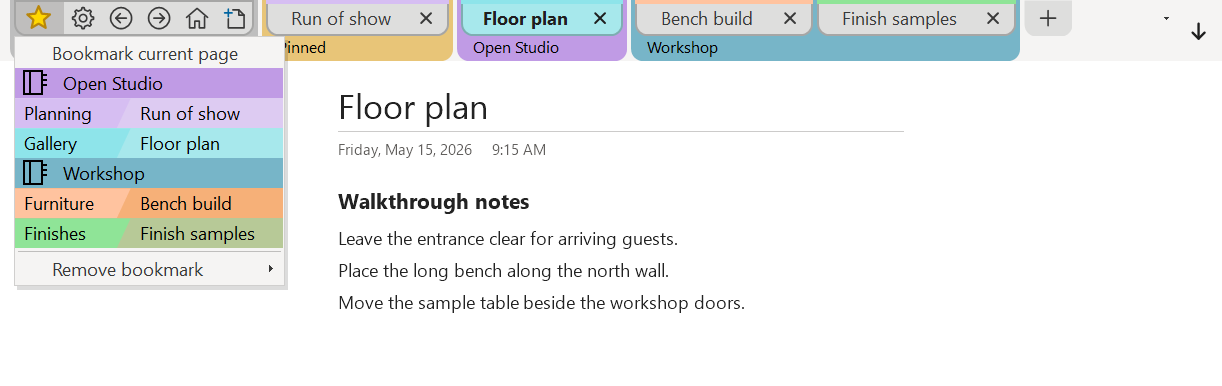
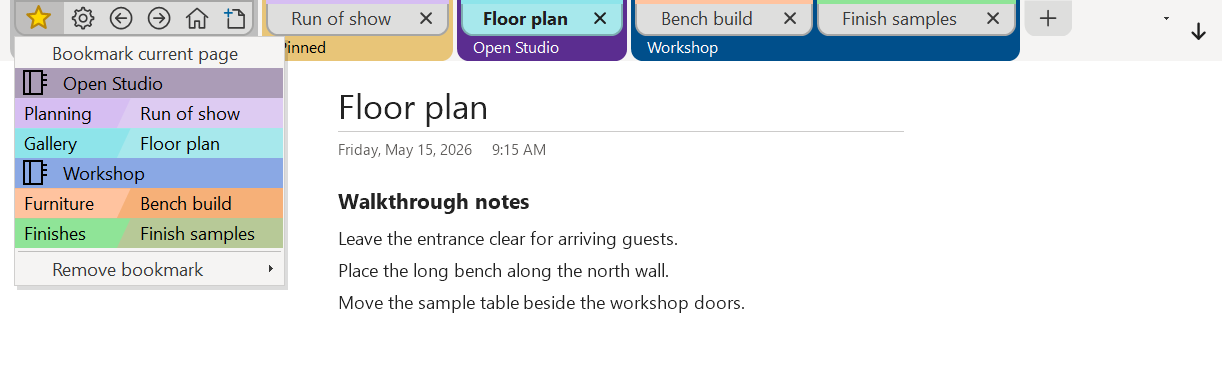
Match MoreTabs notebook bands to native light and dark notebook covers

Changed region(s): [[0.3732, 0.0, 0.8396, 0.1554], [0.0, 0.1554, 0.2488, 0.2798], [0.0, 0.4041, 0.2488, 0.4974]]

diff --git a/addins/page-tabs/prototype/SectionPalette.cs b/addins/page-tabs/prototype/SectionPalette.cs
@@ -12,43 +12,46 @@ internal static class SectionPalette
         internal Swatch(int light, int dark) { Light = Rgb(light); Dark = Rgb(dark); }
     }
     private static readonly Dictionary<int, Swatch> byStoredColor = new Dictionary<int, Swatch>();
-    private static readonly Dictionary<int, Color> notebookIcons = new Dictionary<int, Color>();
+    private static readonly Dictionary<int, Swatch> notebookIcons = new Dictionary<int, Swatch>();
     private static readonly Dictionary<int, bool> isDarkSwatch = new Dictionary<int, bool>();
     static SectionPalette()
     {
-        // Light/dark section tabs, legacy hierarchy color, notebook cover, other section aliases.
-        Add(0xAED2F5, 0x055098, 0x8AA8E4, 0x0088F0, 0x004F8B, 0x8AB6E2); // Blue
-        Add(0xFCD13C, 0x937200, 0xFFD869, 0xFFC114, 0xF1CA5D);           // Yellow
-        Add(0x8FE497, 0x2A7931, 0xB7C997, 0x009E42, 0x008C3A, 0x7ACC93); // Green
-        Add(0xFFA2A9, 0xA71D28, 0xEE9597, 0xEC5158, 0xE71224, 0xF39B9B); // Red
-        Add(0xE7A2FF, 0x810FA9, 0xB49EDE, 0xFA00CC, 0xAB008B, 0xD399CF); // Purple
-        Add(0x8EE4EA, 0x006168, 0x91BAAE, 0x00A0D7, 0x87C9D9);           // Cyan
-        Add(0xFFC39F, 0xC44A01, 0xF6B078, 0xF6630D, 0xF1B86F);           // Orange
-        Add(0xF6A9DC, 0xB82987, 0xD5A4BB, 0xFF1F9E, 0xD20078, 0xEB9FC9); // Magenta
-        Add(0xB3C5F0, 0x364465, 0x9BBBD2, 0x32A6FF, 0x0069AF, 0x96ABDE); // Blue Mist
-        Add(0xD6BEF2, 0x653A98, 0xAB9CB7, 0xB973D3, 0x5B2D90, 0xAAA5DB); // Purple Mist
-        Add(0xE4C7B1, 0x70513A, 0xE8D199, 0xC6A377, 0xCDA485);           // Tan
-        Add(0xB9E375, 0x5E7C2C, 0xF5F96F, 0x7EC400, 0xB4D367);           // Lemon Lime
-        Add(0x99E0CB, 0x44655B, 0xADE792, 0x00C753, 0x00B44B, 0x9DCD78); // Apple
-        Add(0x67E0BC, 0x045840, 0x4DBCCA, 0x1EC3B4, 0x75CDB8);           // Teal
-        Add(0xF1A9A9, 0x982D2D, 0xBA7575, 0xE45383, 0xC10052, 0xF0AAAA); // Red Chalk
-        Add(0xDADCF1, 0x68686C, 0x9595AA, 0x849398, 0xB9C0C7, 0xFFFFFF); // Silver / None
+        // Light/dark section tabs, stored RGB, light/dark notebook covers, other section aliases.
+        // Notebook covers verified against the two palettes in onmain.dll 16.0.20719.20000.
+        Add(0xAED2F5, 0x055098, 0x8AA8E4, 0x004F8B, 0x0088F0, 0x8AB6E2); // Blue
+        Add(0xFCD13C, 0x937200, 0xFFD869, 0xFFC114, 0xFFC114, 0xF1CA5D); // Yellow
+        Add(0x8FE497, 0x2A7931, 0xB7C997, 0x008C3A, 0x009E42, 0x7ACC93); // Green
+        Add(0xFFA2A9, 0xA71D28, 0xEE9597, 0xE71224, 0xEC5158, 0xF39B9B); // Red
+        Add(0xE7A2FF, 0x810FA9, 0xB49EDE, 0xAB008B, 0xFA00CC, 0xD399CF); // Purple
+        Add(0x8EE4EA, 0x006168, 0x91BAAE, 0x00A0D7, 0x00A0D7, 0x87C9D9); // Cyan
+        Add(0xFFC39F, 0xC44A01, 0xF6B078, 0xF6630D, 0xF6630D, 0xF1B86F); // Orange
+        Add(0xF6A9DC, 0xB82987, 0xD5A4BB, 0xD20078, 0xFF1F9E, 0xEB9FC9); // Magenta
+        Add(0xB3C5F0, 0x364465, 0x9BBBD2, 0x0069AF, 0x32A6FF, 0x96ABDE); // Blue Mist
+        Add(0xD6BEF2, 0x653A98, 0xAB9CB7, 0x5B2D90, 0xB973D3, 0xAAA5DB); // Purple Mist
+        Add(0xE4C7B1, 0x70513A, 0xE8D199, 0xC6A377, 0xC6A377, 0xCDA485); // Tan
+        Add(0xB9E375, 0x5E7C2C, 0xF5F96F, 0x7EC400, 0x7EC400, 0xB4D367); // Lemon Lime
+        Add(0x99E0CB, 0x44655B, 0xADE792, 0x00B44B, 0x00C753, 0x9DCD78); // Apple
+        Add(0x67E0BC, 0x045840, 0x4DBCCA, 0x1EC3B4, 0x1EC3B4, 0x75CDB8); // Teal
+        Add(0xF1A9A9, 0x982D2D, 0xBA7575, 0xC10052, 0xE45383, 0xF0AAAA); // Red Chalk
+        Add(0xDADCF1, 0x68686C, 0x9595AA, 0x849398, 0x849398, 0xB9C0C7, 0xFFFFFF); // Silver / None
     }
     private static Color Rgb(int rgb) { return Color.FromArgb(255, Color.FromArgb(rgb)); }
-    private static void Add(int light, int dark, int legacy, int cover, params int[] aliases)
+    private static void Add(int light, int dark, int legacy, int lightCover, int darkCover, params int[] aliases)
     {
         var swatch = new Swatch(light, dark);
-        notebookIcons.Add(legacy, Rgb(cover));
+        notebookIcons.Add(legacy, new Swatch(lightCover, darkCover));
         byStoredColor.Add(legacy, swatch);
-        byStoredColor.Add(cover, swatch);
+        byStoredColor[lightCover] = swatch;
+        byStoredColor[darkCover] = swatch;
         foreach (int rgb in aliases) byStoredColor.Add(rgb, swatch);
         isDarkSwatch.Add(light, false);
         isDarkSwatch.Add(dark, true);
     }
-    internal static Color NotebookIcon(Color stored)
+    internal static Color NotebookIcon(Color stored, bool dark)
     {
-        Color cover;
-        return !stored.IsEmpty && notebookIcons.TryGetValue(stored.ToArgb() & 0xffffff, out cover) ? cover : stored;
+        Swatch cover;
+        if (stored.IsEmpty || !notebookIcons.TryGetValue(stored.ToArgb() & 0xffffff, out cover)) return stored;
+        return dark ? cover.Dark : cover.Light;
     }
     internal static bool? DarkPalette(Color band)
     {

diff --git a/addins/page-tabs/prototype/AppearanceTests.cs b/addins/page-tabs/prototype/AppearanceTests.cs
@@ -62,9 +62,17 @@ internal static class AppearanceTests
                 if (!contrast)
                 {
                     var ordinary = strip.Items.OfType<PageTabButton>().Select(t => t.Group).Where(g => g.Notebook != null);
-                    Check(ordinary.Single(g => g.Text == "Atlas").ForeColor.ToArgb() == Color.White.ToArgb() &&
-                        ordinary.Single(g => g.Text == "Workshop").ForeColor.ToArgb() == Color.Black.ToArgb(),
-                        "Dark and light notebook bands must choose white and black caption text respectively.");
+                    var atlas = ordinary.Single(g => g.Text == "Atlas");
+                    var workshop = ordinary.Single(g => g.Text == "Workshop");
+                    Color blue = surface == dark ? Color.FromArgb(0, 136, 240) : Color.FromArgb(0, 79, 139);
+                    Check(atlas.GroupFill.ToArgb() == blue.ToArgb() && workshop.GroupFill.ToArgb() == Color.FromArgb(198, 163, 119).ToArgb() &&
+                        atlas.ForeColor.ToArgb() == (surface == dark ? Color.Black : Color.White).ToArgb() && workshop.ForeColor.ToArgb() == Color.Black.ToArgb(),
+                        "Notebook bands must use the native blue and tan covers and contrast text against the displayed RGB.");
+                    var palette = (TabRenderer)strip.Renderer;
+                    Color purple = surface == dark ? Color.FromArgb(185, 115, 211) : Color.FromArgb(91, 45, 144);
+                    Check(palette.NotebookCover(Color.FromArgb(171, 156, 183)).ToArgb() == purple.ToArgb() &&
+                        palette.NotebookCover(Color.Orchid) == Color.Orchid && palette.NotebookCover(Color.Empty).IsEmpty,
+                        "Purple Mist must use the cover for this theme; custom and missing notebook RGBs must round-trip.");
                 }
                 foreach (var selected in new[] { schedule, original })
                 {
@@ -176,7 +184,7 @@ internal static class AppearanceTests
             int gap = grouped[1].Bounds.Left - firstTab.Bounds.Right;
             Check(firstTab.Group == grouped[1].Group && gap > 0 &&
                 firstTab.Bounds.Left - firstTab.Group.Left == gap && firstTab.Group.Right - grouped[1].Bounds.Right == gap &&
-                image.GetPixel(firstTab.Bounds.Right, strip.Height / 2).ToArgb() == firstTab.Group.Notebook.Color.ToArgb(),
+                image.GetPixel(firstTab.Bounds.Right, strip.Height / 2).ToArgb() == Color.FromArgb(0, 136, 240).ToArgb(),
                 "The colored band must leave exactly one inter-tab gap at each end of a two-tab group.");
         }
         TogglePin(strip, grouped[2], true);
@@ -240,7 +248,8 @@ internal static class AppearanceTests
                 using (var image = new Bitmap(menu.Width, menu.Height))
                 {
                     menu.DrawToBitmap(image, menu.ClientRectangle);
-                    var expected = new[] { Color.FromArgb(0, 136, 240), palette.Ink, Color.FromArgb(49, 138, 117) };
+                    Color blue = surface == Color.WhiteSmoke ? Color.FromArgb(0, 79, 139) : Color.FromArgb(0, 136, 240);
+                    var expected = new[] { blue, palette.Ink, Color.FromArgb(49, 138, 117) };
                     for (int i = 0; i < expected.Length; i++)
                     {
                         var b = rows[i].Bounds;
@@ -476,7 +485,7 @@ internal static class AppearanceTests
                         box.Height == label.Font.Height + HostChrome.Px(3, chrome.Dpi) &&
                         (bottom ? group.First().Bounds.Top == 0 : group.First().Bounds.Bottom == strip.Height),
                         "The caption must center in the full space between the tab and band edges, with equal end padding.");
-                    Color fill = !colored ? palette.Surface : pinned ? palette.PinnedBand : label.Notebook.Color;
+                    Color fill = !colored ? palette.Surface : pinned ? palette.PinnedBand : palette.NotebookCover(label.Notebook.Color);
                     if (pinned && colored)
                         Check(fill.ToArgb() != palette.ToolsBand.ToArgb(), "The Pinned and Tools bands must be distinct.");
                     Color ink = colored ? palette.NotebookInk(fill) : palette.Ink;

diff --git a/addins/page-tabs/prototype/TabRenderer.cs b/addins/page-tabs/prototype/TabRenderer.cs
@@ -153,6 +153,7 @@ internal sealed class TabRenderer : ToolStripProfessionalRenderer
 {
     internal readonly Color Surface, Ink, MutedInk, Tab, Active, Hover, ActiveMarker, ToolsBand, PinnedBand;
     private readonly bool contrast;
+    private readonly bool dark;
     internal bool HighContrast { get { return contrast; } }
     internal readonly uint Dpi;
     internal readonly bool DarkSections;
@@ -164,7 +165,7 @@ internal sealed class TabRenderer : ToolStripProfessionalRenderer
             if (contrast) return this;
             if (notebookMenu == null)
             {
-                int gray = Luminance(Surface) < .25 ? 40 : 250;
+                int gray = dark ? 40 : 250;
                 notebookMenu = new TabRenderer(Color.FromArgb(gray, gray, gray), Dpi, false, DarkSections);
             }
             return notebookMenu;
@@ -191,7 +192,7 @@ internal sealed class TabRenderer : ToolStripProfessionalRenderer
         Dpi = dpi;
         contrast = highContrast;
         Surface = highContrast ? SystemColors.Window : surface;
-        bool dark = 299 * surface.R + 587 * surface.G + 114 * surface.B < 138000;
+        dark = 299 * surface.R + 587 * surface.G + 114 * surface.B < 138000;
         Ink = highContrast ? SystemColors.WindowText : dark ? Color.White : Color.FromArgb(30, 30, 30);
         Color toward = dark ? Color.White : Color.Black;
         MutedInk = highContrast ? Ink : Blend(Ink, Surface, 13);
@@ -246,6 +247,7 @@ internal sealed class TabRenderer : ToolStripProfessionalRenderer
     {
         return contrast ? SystemColors.Highlight : notebookColor.IsEmpty ? Active : notebookColor;
     }
+    internal Color NotebookCover(Color stored) { return SectionPalette.NotebookIcon(stored, dark); }
     internal Color NotebookInk(Color fill)
     {
         return contrast ? SystemColors.HighlightText : Luminance(fill) > 0.179 ? Color.Black : Color.White;

diff --git a/addins/page-tabs/prototype/PrototypeTests.cs b/addins/page-tabs/prototype/PrototypeTests.cs
@@ -46,7 +46,7 @@ internal static class PrototypeTests
         public Color SectionColor(string id) { return id.StartsWith("a/") ? Color.FromArgb(145,186,174) : BookBColor; }
         public Dictionary<string, BookmarkLocation> PageLocations(IEnumerable<string> ids, bool refresh = false)
         {
-            var a = new BookmarkNotebook("a", "Atlas", Color.MidnightBlue);
+            var a = new BookmarkNotebook("a", "Atlas", Color.FromArgb(138, 168, 228));
             var b = BookB;
             var personal = new BookmarkNotebook("personal", "Personal", Color.Coral);
             return ids.Distinct().ToDictionary(id => id, id => id.StartsWith("personal/") ? new BookmarkLocation(personal, "Quick Notes", SectionColor(id)) :

diff --git a/addins/page-tabs/prototype/PagePicker.cs b/addins/page-tabs/prototype/PagePicker.cs
@@ -62,7 +62,7 @@ internal sealed class PickerRow : ToolStripMenuItem
         if (kind != PickerRowKind.Page)
         {
             int height = HostChrome.Px(20, palette.Dpi);
-            Color color = kind == PickerRowKind.Notebook ? SectionPalette.NotebookIcon(storedColor) : palette.SectionFill(storedColor);
+            Color color = kind == PickerRowKind.Notebook ? palette.NotebookCover(storedColor) : palette.SectionFill(storedColor);
             if (palette.HighContrast || storedColor.IsEmpty) color = ink;
             DrawIcon(g, left, height, palette, color, ink, background);
         }

diff --git a/addins/page-tabs/prototype/PageStrip.cs b/addins/page-tabs/prototype/PageStrip.cs
@@ -652,7 +652,7 @@ internal sealed class PageStrip : ToolStrip
         if (UseNotebookColors)
         {
             if (label.Pinned) fill = appearance.PinnedBand;
-            else if (label.Notebook != null) fill = label.Notebook.Color;
+            else if (label.Notebook != null) fill = appearance.NotebookCover(label.Notebook.Color);
         }
         label.ForeColor = fill.IsEmpty ? appearance.Ink : appearance.NotebookInk(fill);
         if (label.GroupFill != fill)

diff --git a/addins/page-tabs/README.md b/addins/page-tabs/README.md
@@ -63,7 +63,9 @@ All three grouping and label options start enabled. Changes apply immediately. M
 | **Show notebook labels** | Tabs stay grouped. All captions, including **Pinned**, disappear and OneNote gets the whole row back. The label color option is grayed out. |
 | **Use notebook colors for labels** | The notebook bands disappear and the labels use the theme's regular text color. Windows high contrast uses the system background and text colors. |
 
-With grouping on, the notebook color spans the caption and the space behind its visible tabs. Each end of the colored band has the same padding as the gap between two tabs. A thin, darker outline separates each page tab from the band. The notebook name is vertically centered in the caption, with black or white text chosen for contrast. The band is rounded along the edge facing the page, below the tabs when docked at the top and above them when docked at the bottom. Hover over a clipped caption to read its full name.
+With grouping on, each notebook band matches the cover color of its icon in OneNote's navigation. The band and notebook picker use the same 16 standard light and dark cover colors, verified against OneNote build `16.0.20719.20000`. For example, a notebook stored as `#AB9CB7` appears as `#5B2D90` in a light theme and `#B973D3` in a dark theme. Custom colors use the notebook's stored RGB.
+
+The notebook color spans the caption and the space behind its visible tabs. Each end of the band has the same padding as the gap between two tabs. A thin, darker outline separates each page tab from the band. The notebook name is vertically centered in the caption, with black or white text chosen for contrast. The band is rounded along the edge facing the page, below the tabs when docked at the top and above them when docked at the bottom. Hover over a clipped caption to read its full name.
 
 Group labels start left-aligned. Left-click any notebook name, **Tools**, or **Pinned** to center all labels. Click again to align them right, then again to return them to the left. MoreTabs remembers the alignment across windows and restarts.
 
